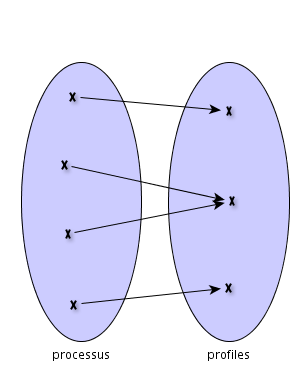
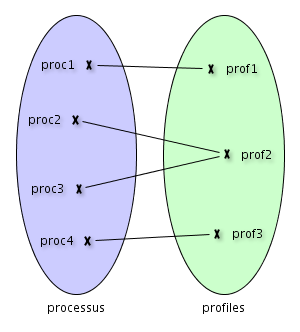
Euler-Venn diagramms over

diff --git a/rapport.tex b/rapport.tex
@@ -1,4 +1,4 @@
-\documentclass[french, titlepage, 11pt, a4paper]{article}
+\documentclass[french, titlepage, 10pt, a4paper]{article}
 \usepackage{xunicode}
 \usepackage{fontspec}
 \usepackage[frenchb]{babel}
@@ -85,16 +85,130 @@ services.
 
 \subsection{Ensembles et relations: diagrammes d'Euler-Venn}
 
+Dans la spécification formelle du projet, nous avons d'emblée veillé à ce que
+les concepts de services, processus et profils soient formalisés sous forme
+d'ensembles, respectivement \emph{services}, \emph{processus} et
+\emph{profiles}.
+
 \subsubsection{Gestionnaire de processus}
+
+Dans la gestion des processus, apparaît la notion de profil d'un processus.
+Tout processus est lié à un profil, cependant plusieurs processus peuvent
+partager un même profil.
+En outre, un profil n'a pas de raison d'exister si aucun processus ne lui est
+lié.
 
 \begin{figure}[htb]
   \centering
-  \includegraphics[width=0.7\textwidth]{proc_profile.png}
-  \caption{proc\_profile: processus --> profiles}
+  \includegraphics[width=0.4\textwidth]{proc_profile.png}
+  \caption{$proc\_profile: processus \rightarrow profiles$}
   \label{fig:proc_profile}
 \end{figure}
 
+Dès lors, nous avons formalisé une fonction totale de \emph{processus} vers
+\emph{profiles}, telle que l'illustre la figure \ref{fig:proc_profile}.
+
 \subsubsection{Gestionnaire de services}
+
+Dans le cadre du gestionnaire de services, les relations entre ensembles
+deviennent dès lors plus nombreuses, dans la mesure où sont réutilisées ici les
+concepts de processus et de profils afin de mieux satisfaire à la modularité
+attendue dans la gestion de services.
+
+\begin{enumerate}
+
+  \item Type d'un service:
+
+    Tout service a un type d'accès, définissant si l'accès à ce service est
+    contraint ou libre.
+    Un service contraint devra spécifier les profils de processus pouvant
+    l'utiliser.
+
+    \begin{figure}[htb]
+      \centering
+      \includegraphics[width=0.4\textwidth]{type_service.png}
+      \caption{$type\_service: services \rightarrow TYPE$}
+      \label{fig:type_service}
+    \end{figure}
+
+    La figure \ref{fig:type_service} montre la fonction liant un service à son
+    type.
+
+  \item Accès d'un service:
+
+    L'accès à un service permet de spécifier si plusieurs processus peuvent
+    faire appel à ce service en même temps (accès inclusif) ou non (accès
+    exclusif).
+
+    \begin{figure}[htb]
+      \centering
+      \includegraphics[width=0.4\textwidth]{acces_service.png}
+      \caption{$acces\_service: services \rightarrow ACCES$}
+      \label{fig:acces_service}
+    \end{figure}
+
+    La figure \ref{fig:acces_service} montre la fonction liant un service à son
+    accès.
+
+  \item État d'un service:
+
+    L'état d'un service permet de gérer la disponibilité ou non de celui-ci.
+    Le service sera dès lors respectivement actif ou inactif.
+
+    \begin{figure}[htb]
+      \centering
+      \includegraphics[width=0.4\textwidth]{etat_service.png}
+      \caption{$etat\_service: services \nrightarrow ETAT$}
+      \label{fig:etat_service}
+    \end{figure}
+
+    La figure \ref{fig:etat_service} montre la fonction liant un service à son
+    état.
+
+  \item Profils que reconnaît un service contraint:
+
+    Un service contraint est lié à un ou plusieurs profils de processus qui
+    pourront dès lors l'utiliser.
+
+    \begin{figure}[htb]
+      \centering
+      \includegraphics[width=0.4\textwidth]{serv_profiles.png}
+      \caption{$serv\_profiles: serv\_contraints \rightarrow FIN(PROFILES)$}
+      \label{fig:serv_profiles}
+    \end{figure}
+
+    La figure \ref{fig:serv_profiles} montre la fonction liant un service
+    contraint à ses profils de processus.
+
+  \item Souscription d'un processus à un service:
+
+    Un processus doit pouvoir souscrire à un service, afin de pouvoir l'utiliser
+    ensuite.
+    Plusieurs processus peuvent souscrire à un même service, et un processus
+    peut souscrire à plusieurs services.
+
+    \begin{figure}[htb]
+      \centering
+      \includegraphics[width=0.4\textwidth]{serv_proc.png}
+      \caption{$serv\_subscribed: services \leftrightarrow PROCESSUS$}
+      \label{fig:serv_subscribed}
+    \end{figure}
+
+    La figure \ref{fig:serv_subscribed} montre la relations liant des services
+    à des processus leur ayant souscrit.
+
+  \item Utilisation d'un service par un processus:
+
+    Un processus doit dès lors être en mesure d'utiliser un service auquel il a
+    souscrit.
+    Pour peu que l'accès à un service soit inclusif, plusieurs processus peuvent
+    l'utiliser en même temps, et un processus peut utiliser plusieurs services à
+    la fois.\\
+
+    La relation $serv\_binded: services \leftrightarrow PROCESSUS$ est
+    dès lors similaire à la figure \ref{fig:serv_subscribed}.
+
+\end{enumerate}
 
 \section{Organisation du travail}
 Plusieurs aspects nous ont poussés à travailler ensemble sur le projet: la
